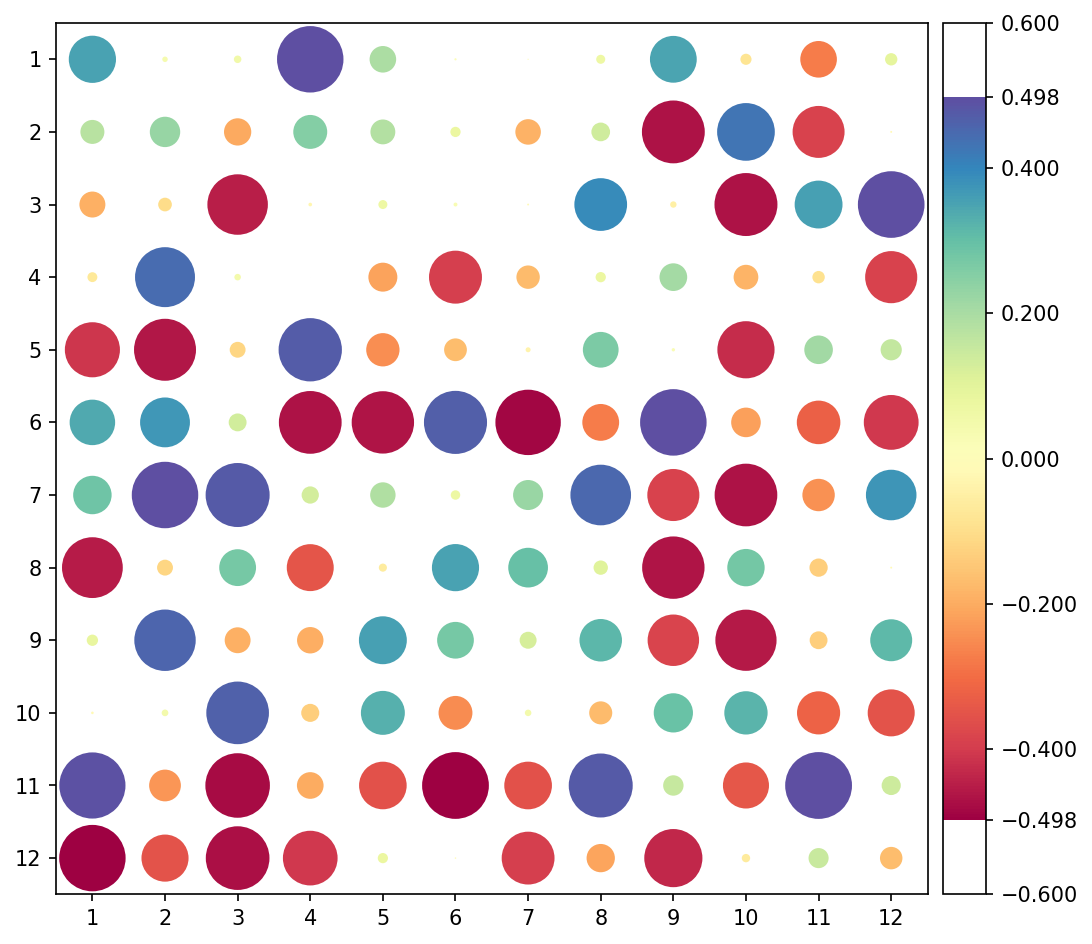
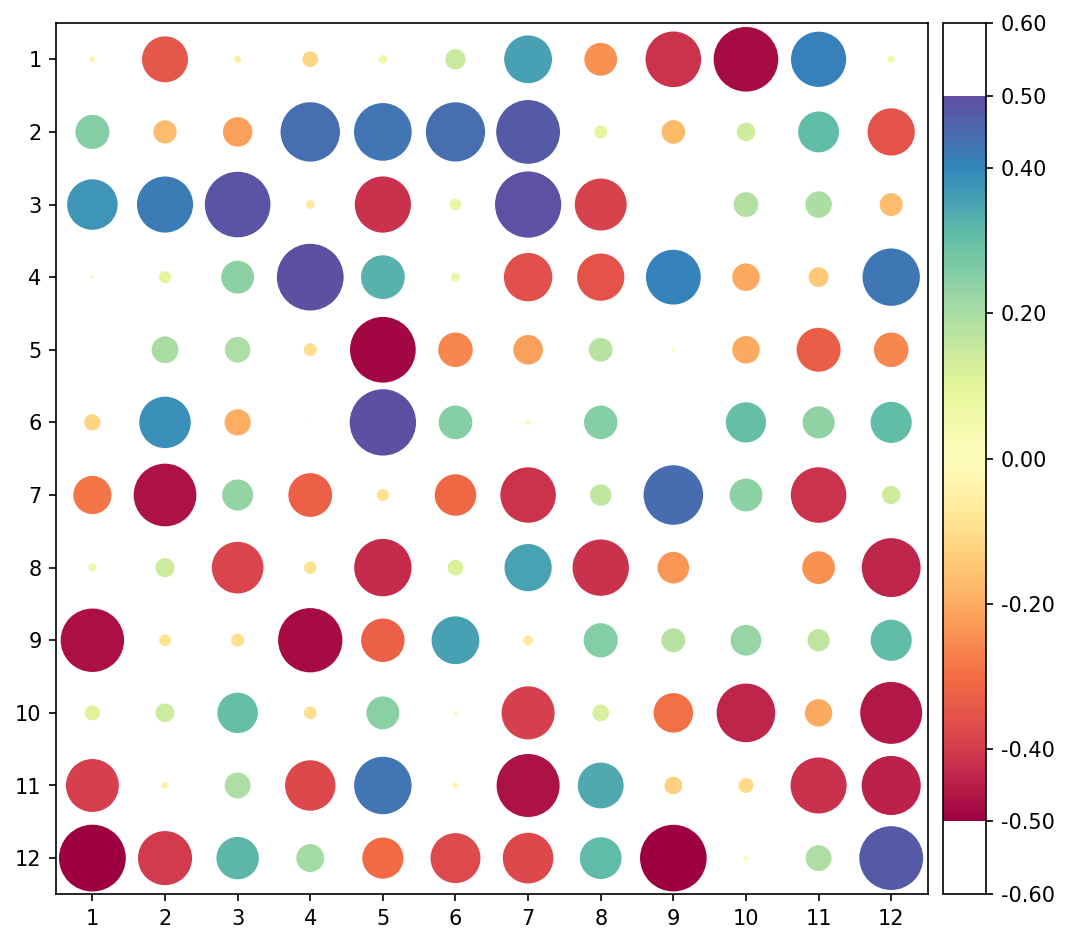
Fix colorbar tick formatting (2 decimals) and prevent duplicate extreme ticks

diff --git a/src/special_heatmap/heatmap.py b/src/special_heatmap/heatmap.py
@@ -235,11 +235,14 @@ class SHeatmap:
                 final_ticks = [self.vmin, self.vmax]
                 for t in current_ticks:
                     # Keep ticks that are not too close to vmin/vmax
+                    # AND ensure we don't duplicate ticks that are effectively equal
                     if abs(t - self.vmin) > threshold and abs(t - self.vmax) > threshold:
                         final_ticks.append(t)
                 
                 final_ticks = sorted(list(set(final_ticks)))
                 cbar.set_ticks(final_ticks)
+                # Format to 2 decimal places to be safe and clean
+                cbar.set_ticklabels([f"{x:.2f}" for x in final_ticks])
         
         return self
 
